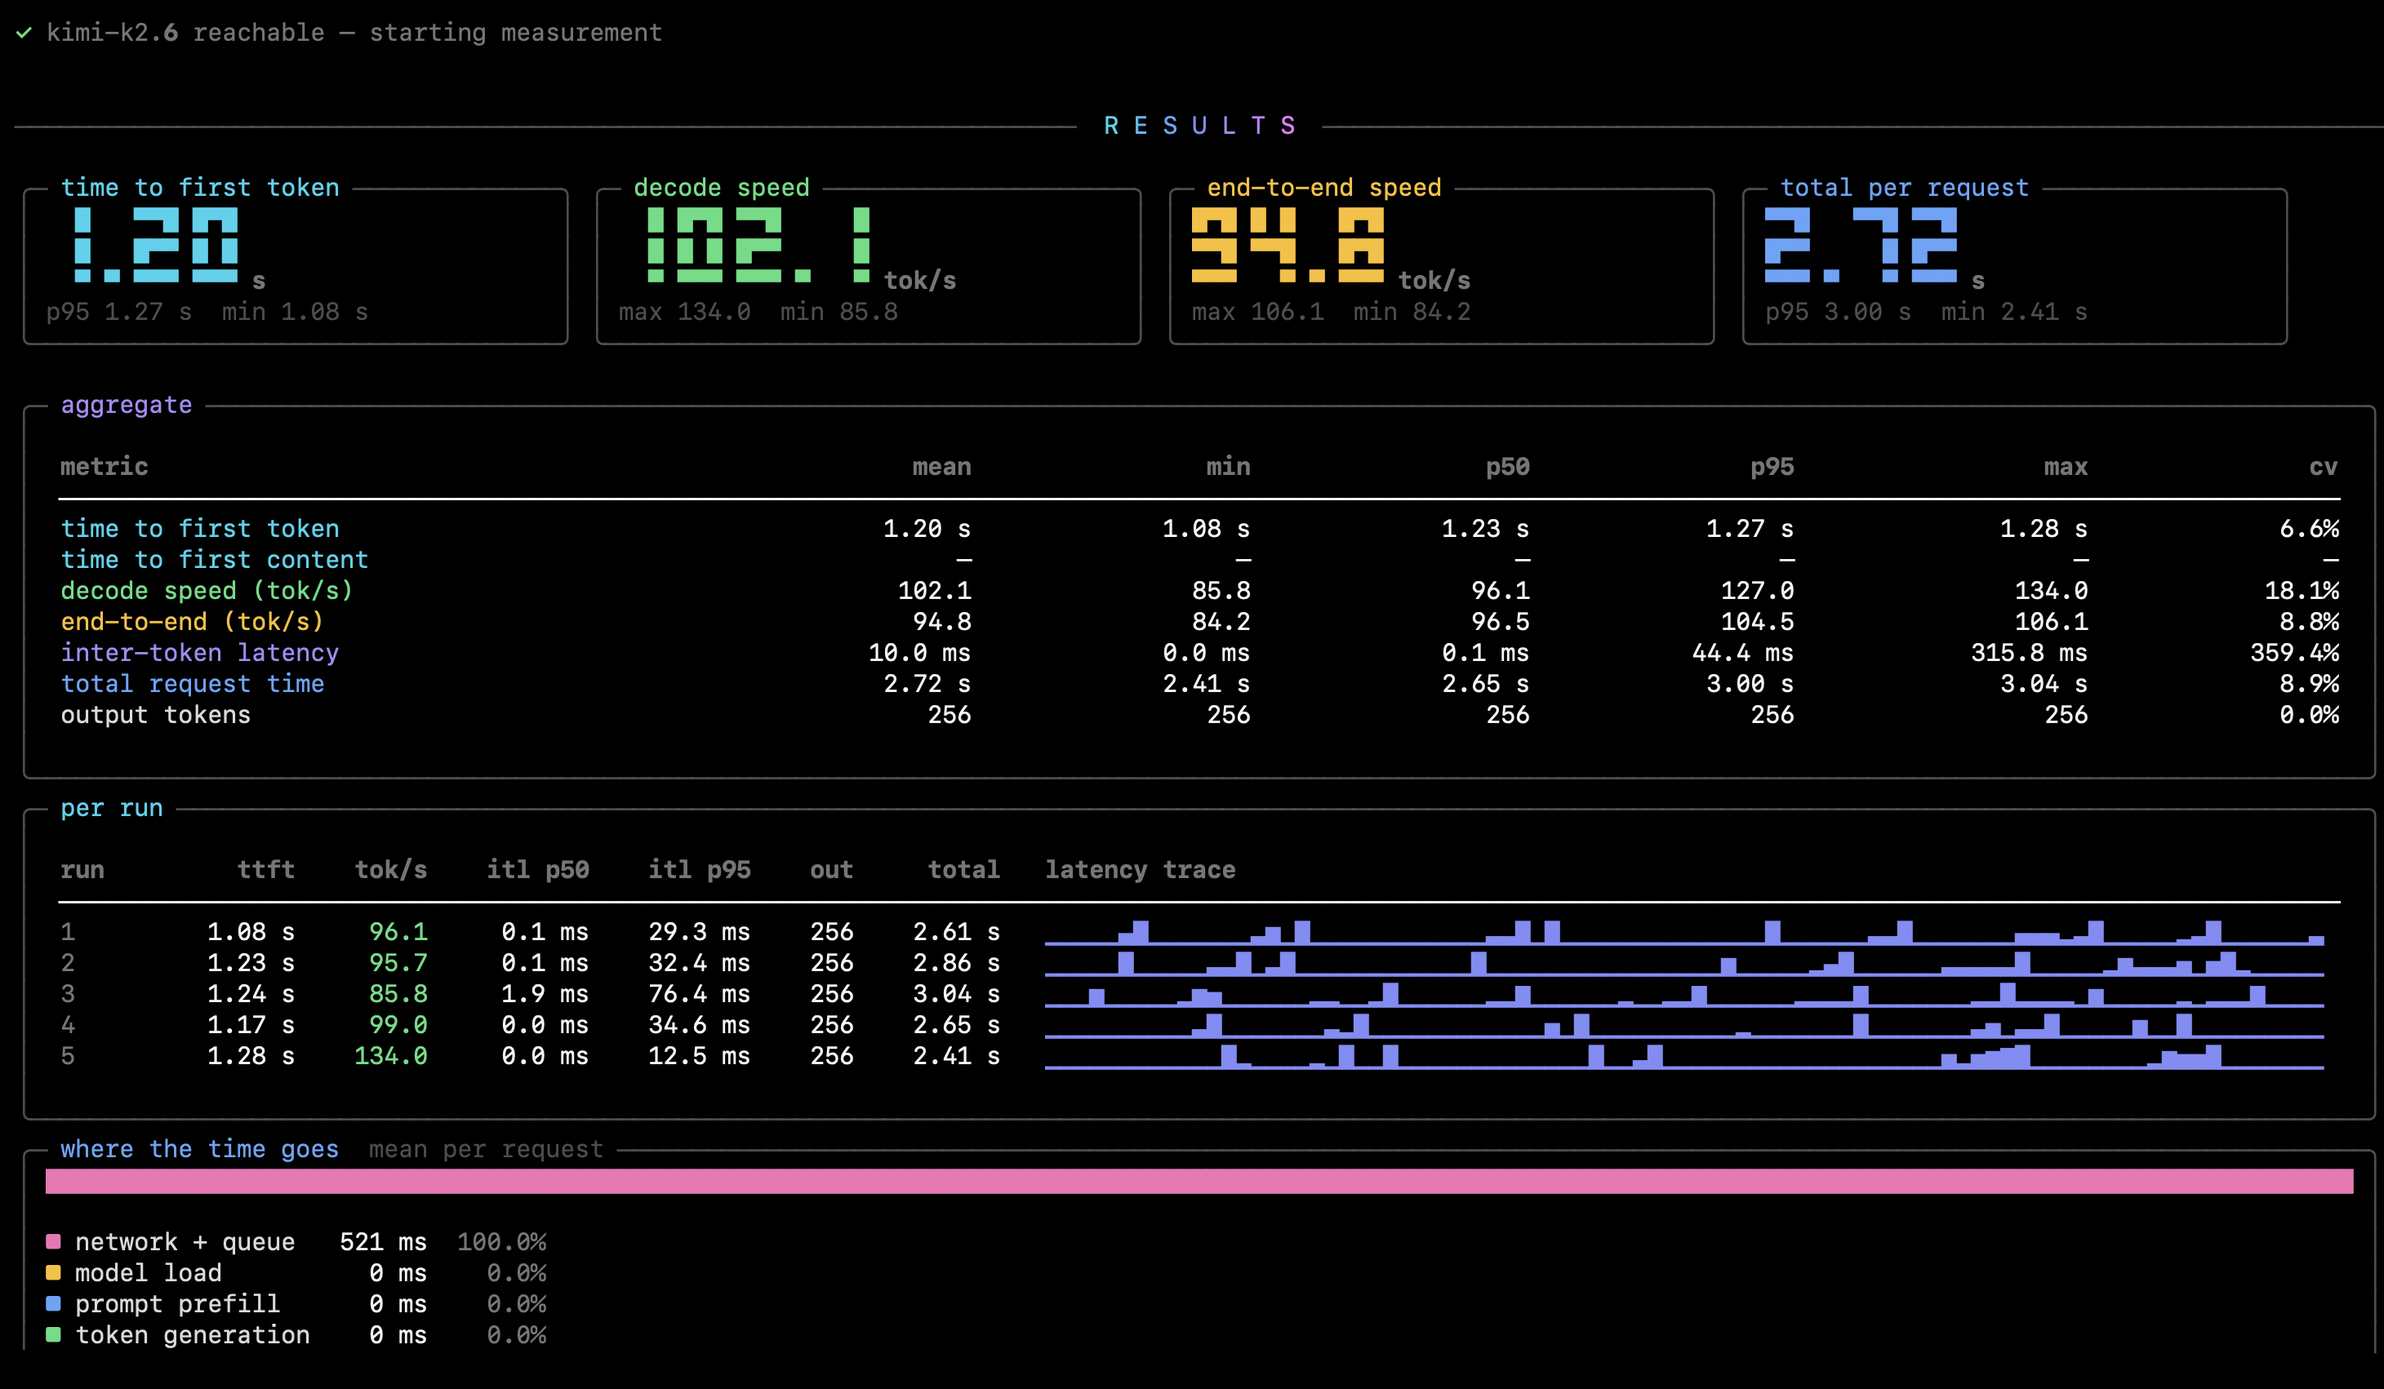
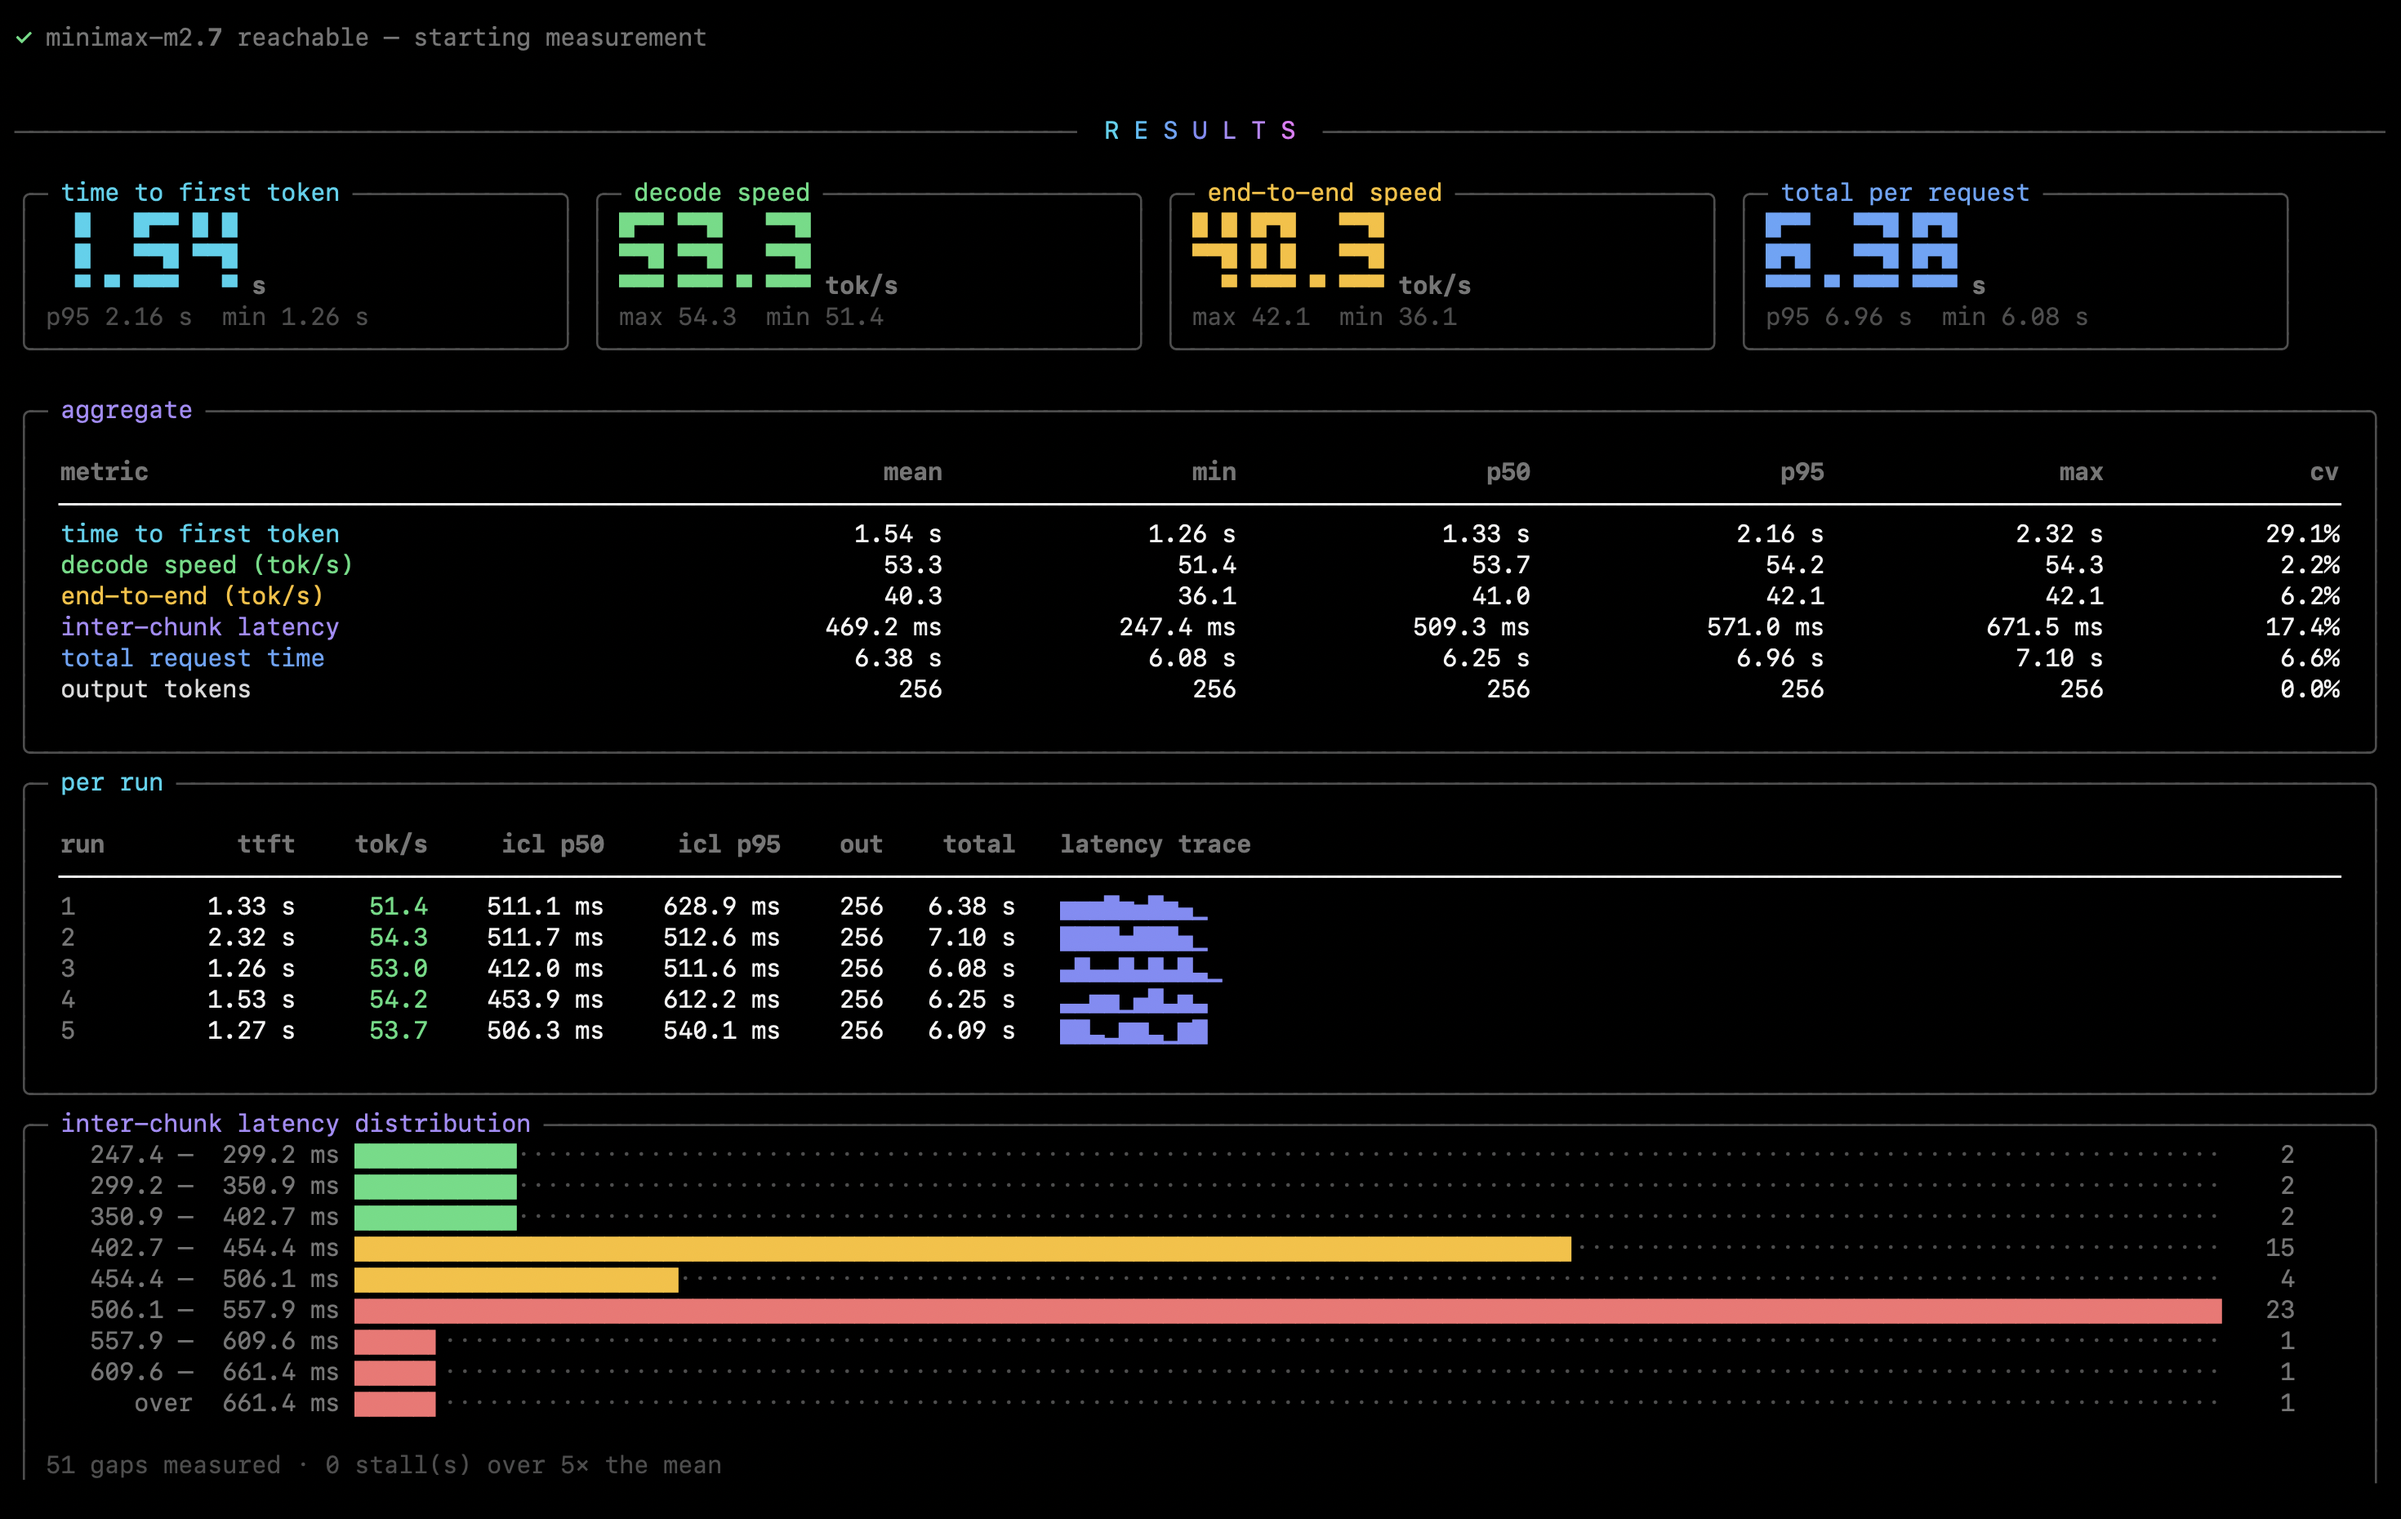
Replace the screenshot with a post-fix run
The old capture predated the measurement fixes: it showed the understated
decode speed, the bogus 100% network+queue breakdown, the em-dash content
row and the mislabelled inter-token latency.

The new run against minimax-m2.7 shows the corrected behaviour, including
inter-chunk labelling and the breakdown panel correctly absent. The report
section now describes what is actually on screen.

diff --git a/README.md b/README.md
@@ -118,16 +118,23 @@ trace, the text streaming in, and a scoreboard of finished runs:
 
 ## The report
 
-The screenshot at the top of this page is a real run. Reading it top to bottom:
+The screenshot at the top is a real run against Ollama Cloud. The report is made of:
 
 - **hero cards** — the four headline numbers, each with its spread underneath
 - **aggregate** — every metric as mean / min / p50 / p95 / max, plus `cv` for run-to-run
   consistency
 - **per run** — one row per request, with a sparkline of that run's streaming gaps
-- **where the time goes** — the server-reported split of a request, for endpoints that
-  report it
 - **latency distribution** — a histogram of the streaming gaps, with a stall count
+- **where the time goes** — the server-reported split of a request. Not in the screenshot,
+  because Ollama Cloud does not report phase timings and ometer skips the panel rather
+  than inventing numbers for it
 - **verdict** — the whole thing in one line
+
+That run is also a good example of why the labels move around. minimax-m2.7 packs roughly
+23 tokens into every streamed chunk and sends one about every 470 ms, so the gap columns
+read **icl** (inter-chunk) rather than itl — the client simply cannot see individual
+tokens arrive. Worth knowing before you read a 469 ms "latency" as a stutter: the model is
+producing 53 tokens a second, just delivering them in batches.
 
 The report reflows between 40 and 200 columns. As the terminal narrows, table columns are
 dropped and labels shortened rather than truncated, so no measurement is ever cut off
